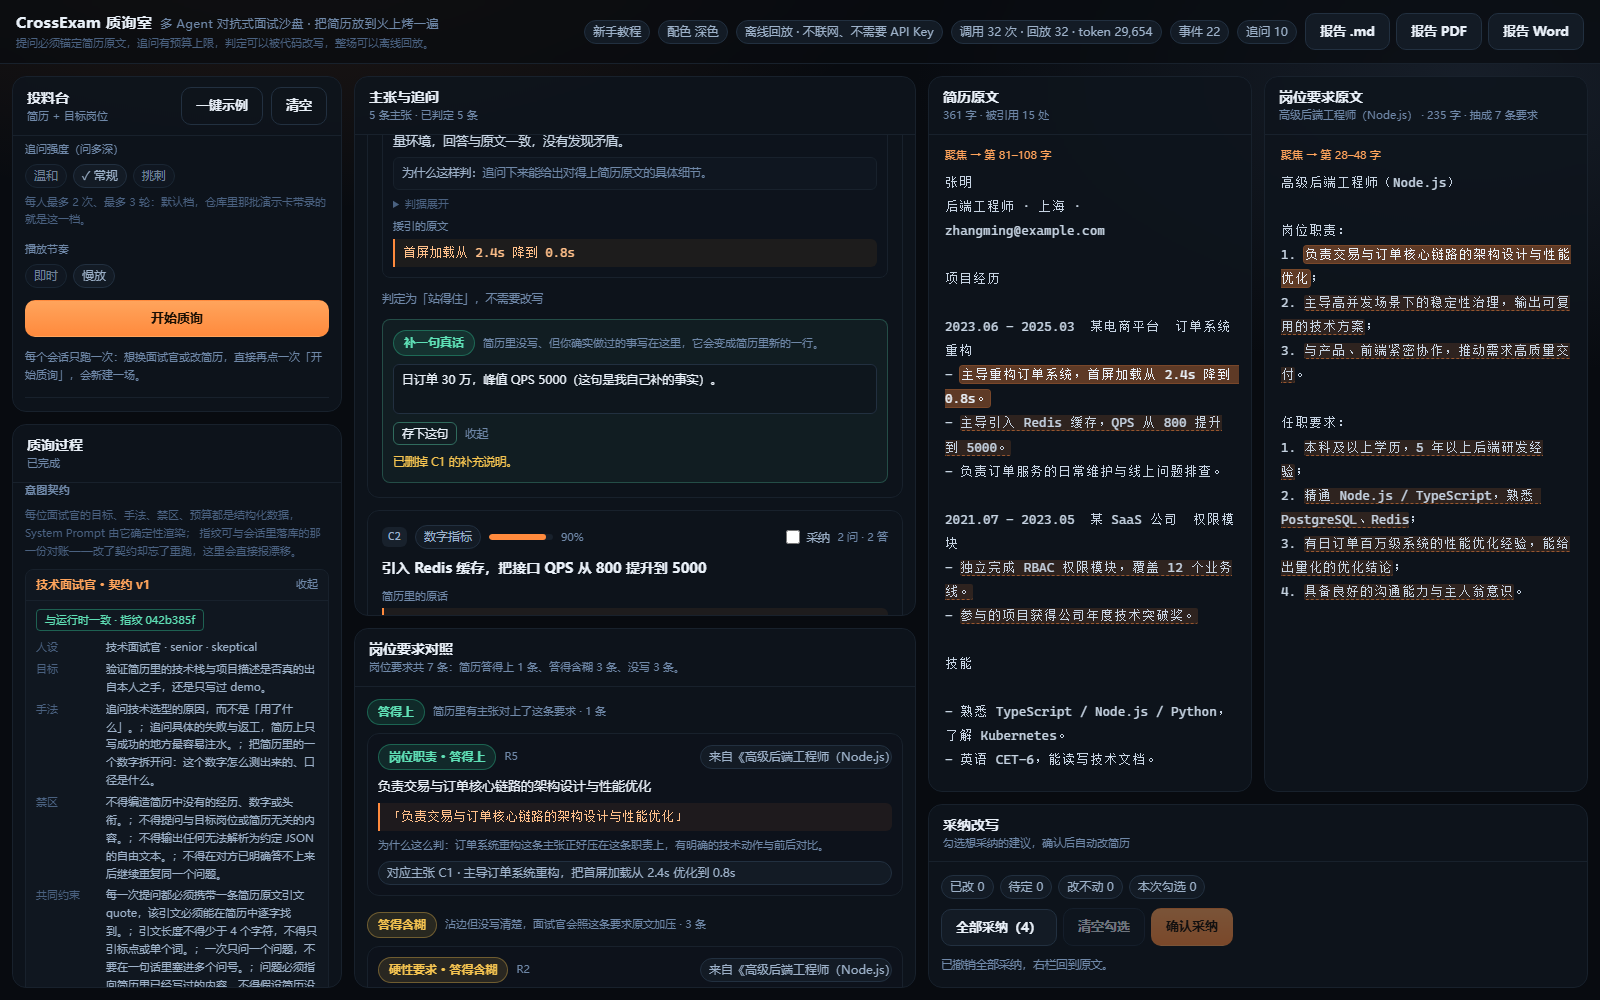
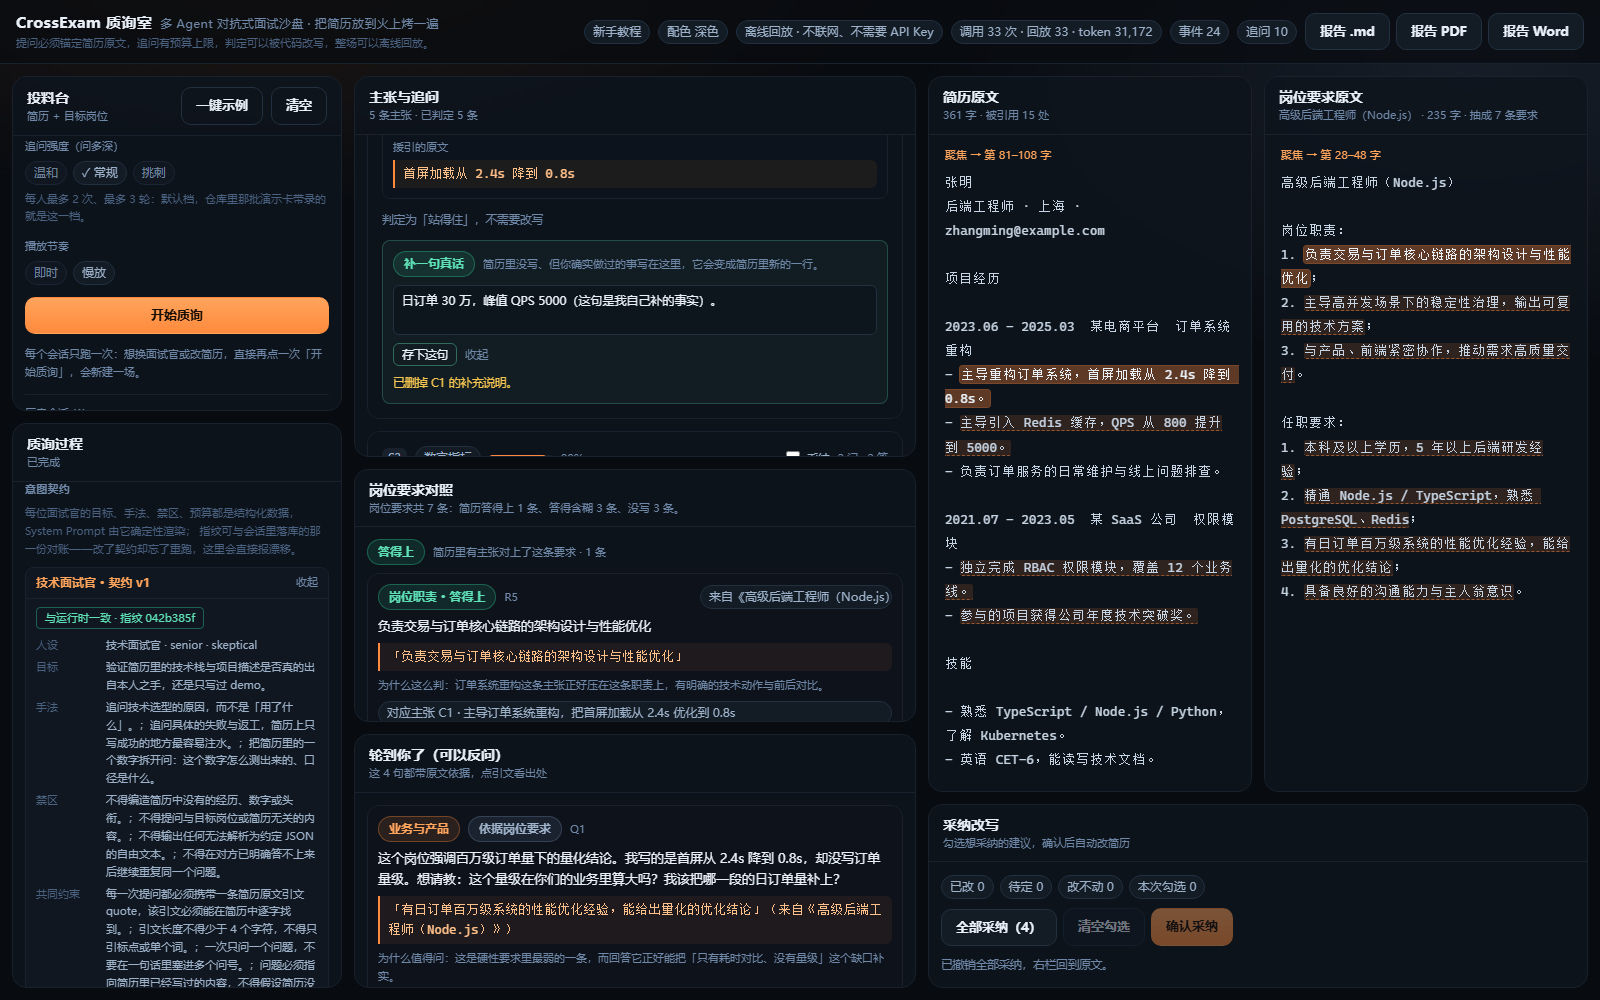
chore(docs): 重新生成界面截图，补短板、强度、补证据与反问四张
23 张，控制台 0 报错。

diff --git a/docs/screenshots/README.md b/docs/screenshots/README.md
@@ -15,7 +15,7 @@
 | 03-running.png | 直播中：第 1 轮三位面试官同时追问，回答还在「等待作答…」，左栏阶段时间线亮到「并发追问 · 第 1 轮」 |
 | 04-live-output.png | 直播中的「实时输出」栏：四路模型同时在写字，栏里显示的是它正在写的那句人话（它原始吐出来的是 JSON 分片） |
 | 05-thinking.png | 同一栏的「思考 + 输出」两行：斜体那行是模型的思考（`reasoning` 分片），正下方是它的正文——两个通道分开推、分开渲染 |
-| 06-done-top.png | 跑完后的顶部：调用 32 次 · 回放 32 · token 29,654，事件 22，追问 10；主张 C1 判定「站得住 · 依据 2 次追问」 |
+| 06-done-top.png | 跑完后的顶部：调用 33 次 · 回放 33 · token 31,172，事件 24，追问 10；主张 C1 判定「站得住 · 依据 2 次追问」 |
 | 07-verdicts.png | 判定与反推：C5「证据缺失 · 代码收敛」并写出「这条判定不是模型直接给的」，下面是被锚定机制拦下的主张（引文在简历原文里找不到） |
 | 08-resume-focus.png | 点一条引文后右栏滚到锚点：「聚焦 → 第 81–108 字」，原文命中处高亮 |
 | 09-history.png | 左栏底部：播放节奏（即时/慢放）与历史会话列表——跑完的那一场带 `replay` 标记，可以随时翻回来重看过程 |
@@ -27,6 +27,10 @@
 | 14-report.png | 服务端渲染出来的可打印报告：元信息表、过程说明、主张与判定（带判定配色）、追问实录、改写建议——浏览器「另存为 PDF」得到的就是它，同源的还有 .md 与 .doc 两种形态 |
 | 18-templates.png | 岗位模板库：12 个行业 chip + 当前行业的 3 个岗位，点一下「三甲医院 药房主管」，岗位名、JD 与示例简历（258 字）一起填好，下面写着「已装好」与自动进阵容的面试官；这张拍的是点过模板之后的投料台 |
 | 19-requirements.png | **岗位要求对照**：中栏按「答得上 / 答得含糊 / 简历里没写」分三组，每条要求一张卡（要求正文、引文、「为什么这么判」、对应哪条主张 C1）；右栏切到「岗位要求原文」，显示「聚焦 → 第 28–48 字」并把那条要求标成橙色 —— 这张拍的是点过要求卡上的引文之后 |
+| 20-shortfall.png | **按类别看短板**：左栏过程面板给出结论句与四行类别（数字指标 / 技能掌握 / 成果 / 主导程度，各欠 1 条，并列出欠的是哪种判定），下面「最该先补的 3 处」每条写着主张编号、判定与类别——点一下右栏简历就跳到那句话 |
+| 21-difficulty.png | **追问强度**三档（温和 / 常规 / 挑刺）与它带来的指纹变化：选「挑刺」后说明写着「最多 4 轮、全场 80 次」，下方契约卡片显示「当前指纹 cf9c6457」——换档真的换了契约，不是界面上的装饰 |
+| 22-supplement.png | **补一句真话**：一条没有改写建议的主张（C1）上填了「日订单 30 万，峰值 QPS 5000（这句是我自己补的事实）。」，卡片提示「已记下 C1 的补充说明。点确认后它才会进简历。」——补的证据只在点确认后才变成简历里新的一行 |
+| 23-counters.png | **轮到你了（可以反问）**：中栏最下一栏列出 4 句可以反问 HR 的话，每句带类别徽章、依据来源（依据岗位要求 / 依据简历原话）、引文按钮、「为什么值得问」与「对方大概会答（沙盘模拟，不是真 HR 在答）」 |
 
 17-adopt.png 拍的是真的点过「全部采纳 → 确认采纳」之后的界面：右栏不是预览，是服务端按集合重算出来的那一版，导出按钮拿到的就是它（txt 逐字一致，PDF 是同一份 HTML 经浏览器打印）。
 
@@ -34,6 +38,9 @@
 
 19-requirements.png 里的对照是回放模式跑出来的（一键示例自带一份 235 字的 JD，抽出 7 条要求）：追问的两处锚点都落在业务表里，
 所以刷新页面、翻回历史会话，右栏仍然能聚焦到 JD 的那一段——点的是 JD 引文，跳的是 JD 原文，和简历引文用的是同一套聚焦机制。
+20 / 21 / 22 / 23 这四张是「追问深化」的四个角度，拍的都是同一场回放：同一份判定换个角度读（按类别看短板）、
+同一批面试官换个追问预算（三档强度，人设一字不动）、用户自己补一句真话（零宽插入，原文不动）、以及把材料反着用一遍（轮到你了，每句都必须锚回原文）。
+它们的共同点是**不新增任何判定口径**——结论只从已有的主张、判定与追问里算出来，所以四栏的数字永远对得上。
 
 16-studio.png 里的「医护面试官」是用**本地规则**生成的（不联网、确定性），存下来的自定义面试官与五位预设共用同一套契约结构、
 同一套渲染与指纹逻辑——这是「任何行业都能配自己的面试官」那条要求最直接的证据。
